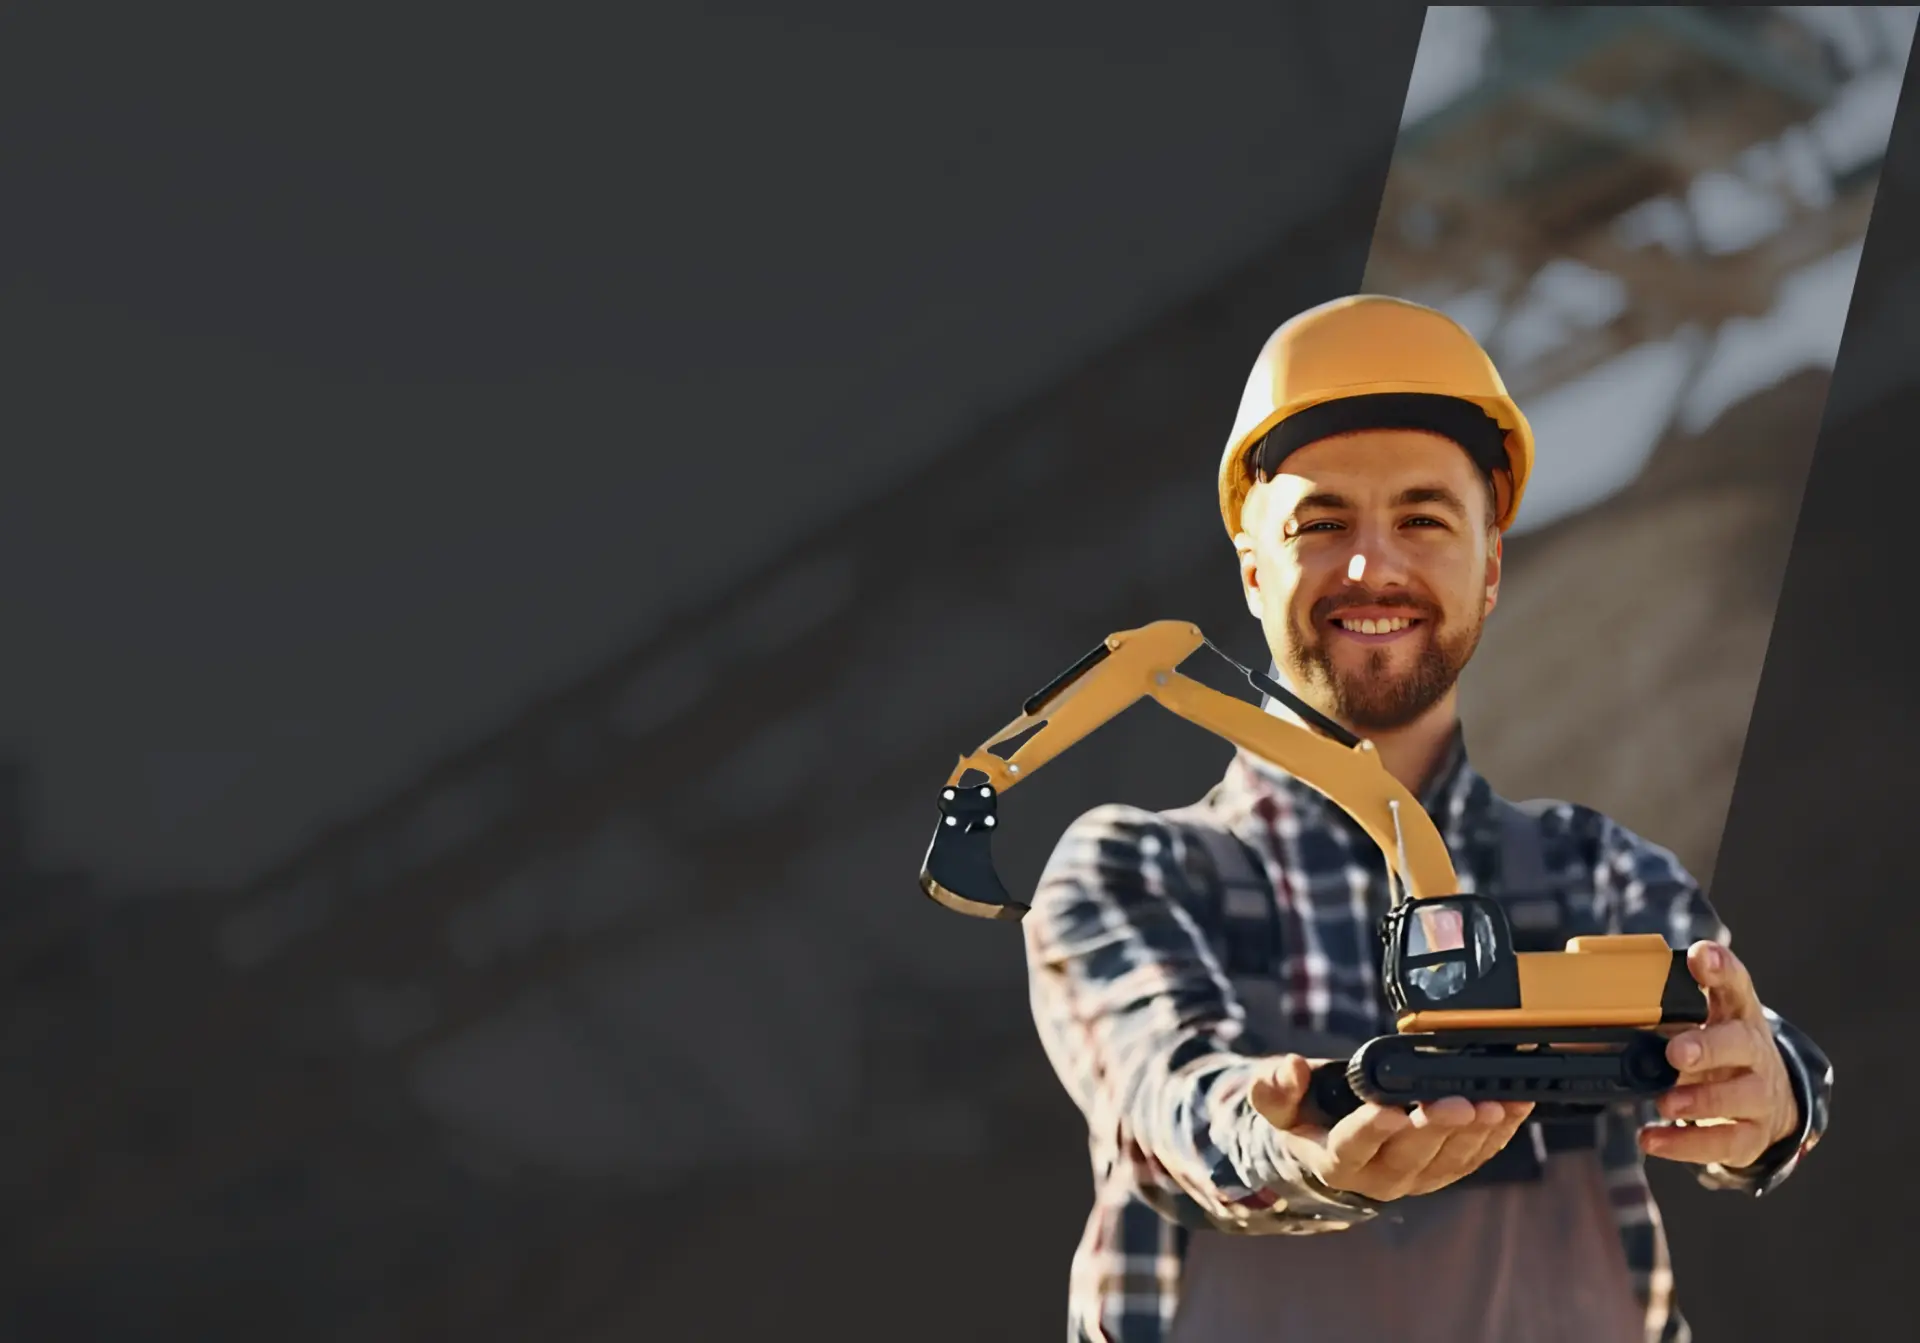
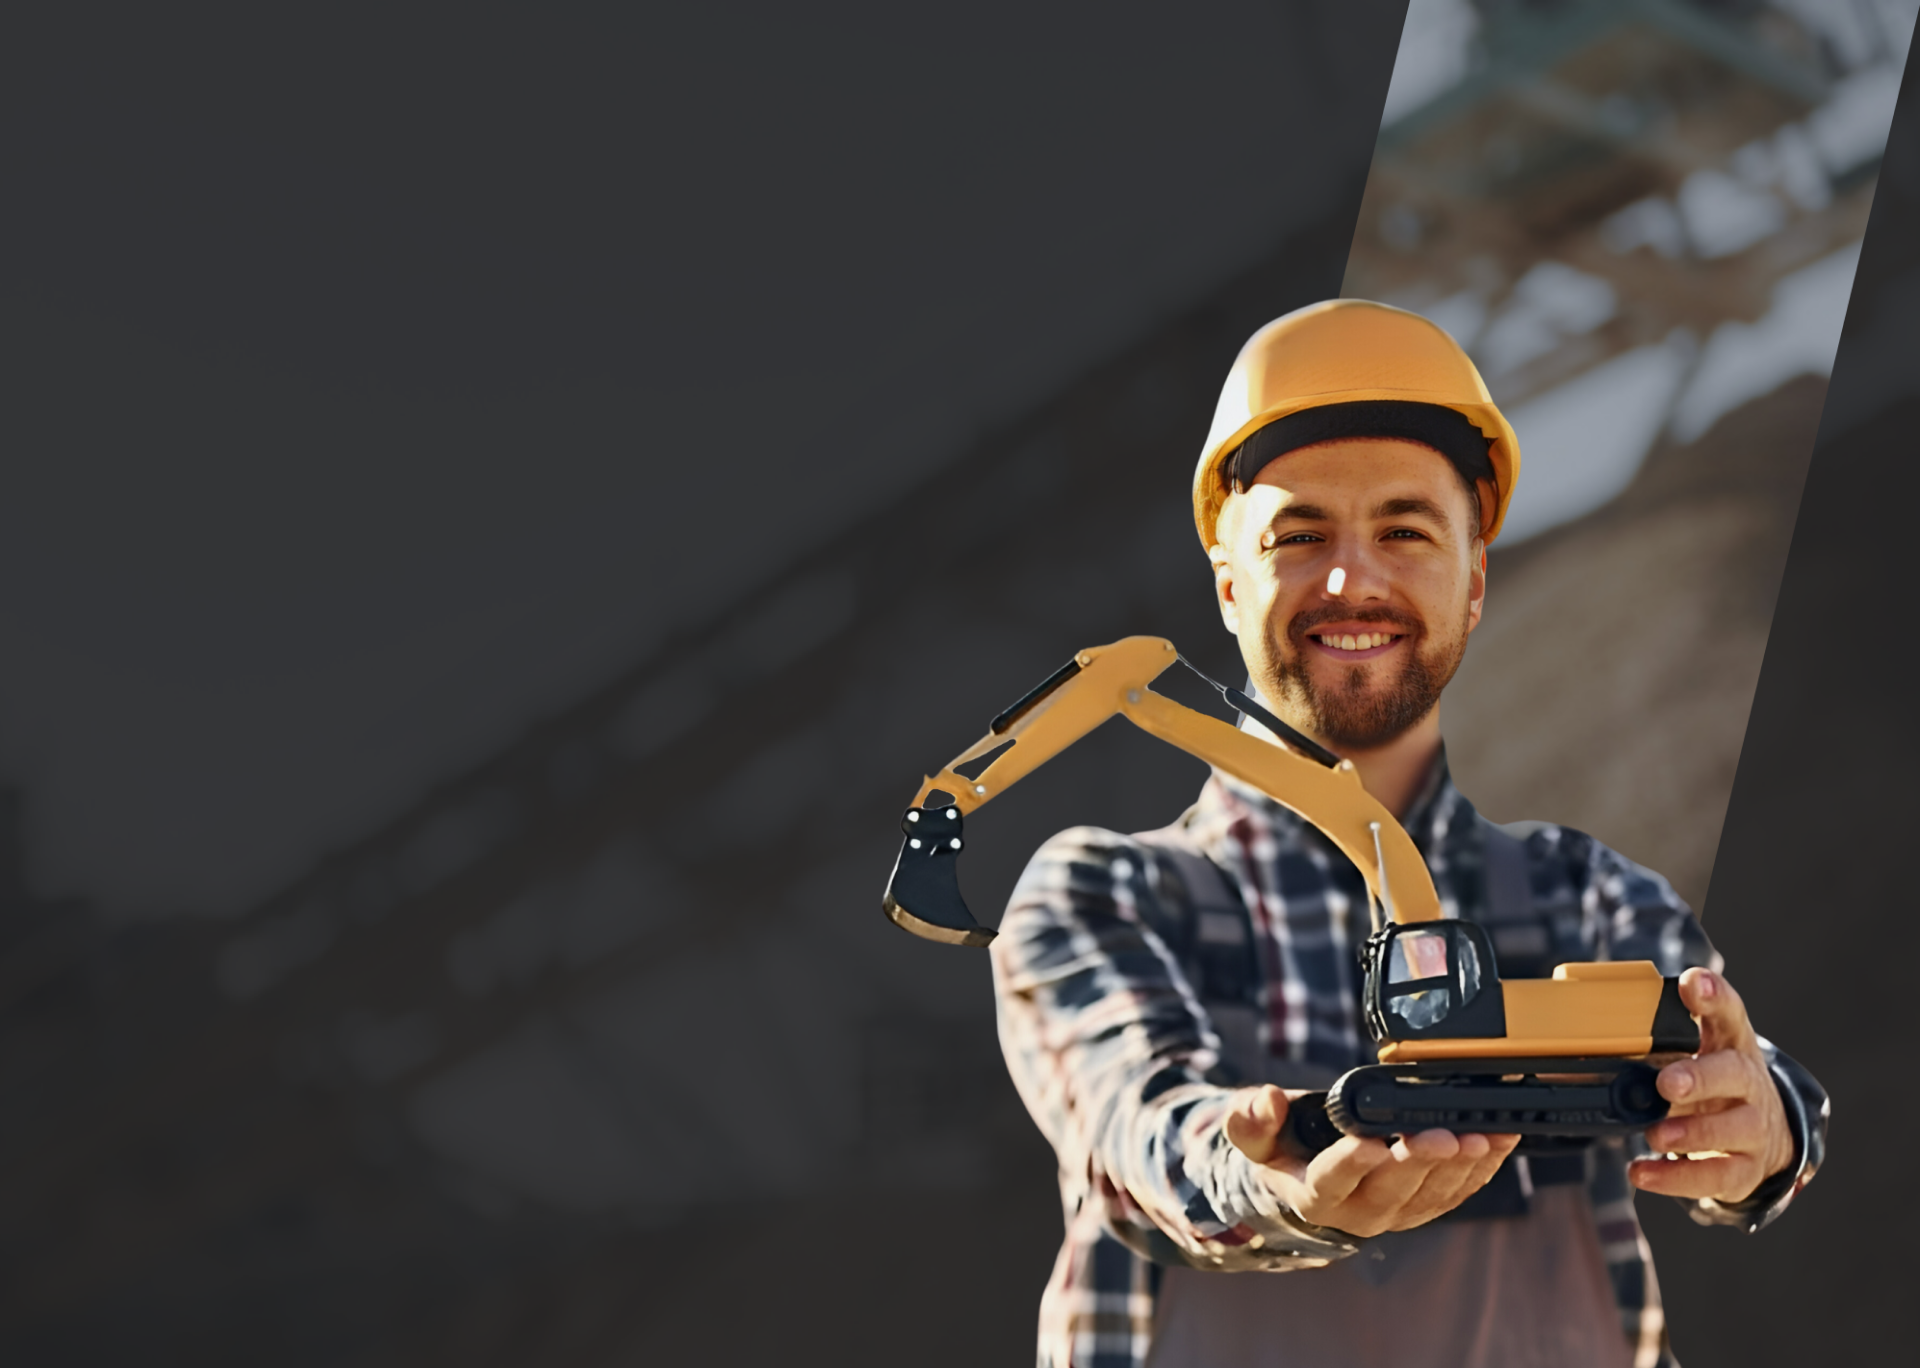
HR section done

diff --git a/src/components/index/HumanResources/HumanResources.tsx b/src/components/index/HumanResources/HumanResources.tsx
@@ -1,8 +1,50 @@
 import React, { useState } from "react";
 import styles from "./HumanResources.module.scss";
 import Image from "next/image";
-import { Button, TextField } from "@mui/material";
+import { Button, TextField, styled } from "@mui/material";
 import { MuiFileInput } from "mui-file-input";
+
+const StyledTextField = styled(TextField)`
+  & label.Mui-focused {
+    color: white;
+  }
+  & .MuiOutlinedInput-root {
+    &.Mui-focused fieldset {
+      border-color: white;
+    }
+  }
+
+  fieldset {
+    border-color: white;
+  }
+
+  & .muiformlabel-root[data-shrink=false]: {
+    color: #f7f0e3;
+  }
+
+  border-color: white;
+`;
+
+const StyledFileInput = styled(MuiFileInput)`
+  & label.Mui-focused {
+    color: white;
+  }
+  & .MuiOutlinedInput-root {
+    &.Mui-focused fieldset {
+      border-color: white;
+    }
+  }
+
+  fieldset {
+    border-color: white;
+  }
+
+  & span {
+    color: #f7f0e3;
+  }
+
+  border-color: white;
+`;
 
 export const HumanResources = () => {
   const [cvFile, setCvFile] = useState<File | null>(null);
@@ -16,44 +58,63 @@ export const HumanResources = () => {
       <div className={styles.contentContainer}>
         <div className={styles.sectionHeader}>
           <h3>Cadre</h3>
+          <p>Fii parte din echipa noastră de profesioniști</p>
         </div>
-        <p className={styles.sectionSubTitle}>
-          Fii parte din echipa noastră de profesioniști
-        </p>
+
         <form className={styles.contactForm}>
-          <TextField
+          <StyledTextField
             className={styles.contactFormInput}
             id="nameSurname"
             label="Nume Prenume"
             autoComplete="nameSurname"
-            InputProps={{ sx: { borderRadius: 0 } }}
+            InputProps={{ sx: { borderRadius: 0, height: "70px" } }}
+            sx={{
+              ".MuiFormLabel-root[data-shrink=false]": {
+                top: "5px",
+              },
+            }}
           />
 
-          <TextField
+          <StyledTextField
             className={styles.contactFormInput}
             id="phone"
             label="Telefon"
             autoComplete="phone"
-            InputProps={{ sx: { borderRadius: 0 } }}
+            InputProps={{ sx: { borderRadius: 0, height: "70px" } }}
+            sx={{
+              ".MuiFormLabel-root[data-shrink=false]": {
+                top: "5px",
+              },
+            }}
           />
 
-          <TextField
+          <StyledTextField
             className={styles.contactFormInput}
             id="email"
             label="Email"
             autoComplete="email"
-            InputProps={{ sx: { borderRadius: 0 } }}
+            InputProps={{ sx: { borderRadius: 0, height: "70px" } }}
+            sx={{
+              ".MuiFormLabel-root[data-shrink=false]": {
+                top: "5px",
+              },
+            }}
           />
 
-          <TextField
+          <StyledTextField
             className={styles.contactFormInput}
             id="job"
             label="Funcția"
             autoComplete="job"
-            InputProps={{ sx: { borderRadius: 0 } }}
+            InputProps={{ sx: { borderRadius: 0, height: "70px" } }}
+            sx={{
+              ".MuiFormLabel-root[data-shrink=false]": {
+                top: "5px",
+              },
+            }}
           />
 
-          <TextField
+          <StyledTextField
             className={styles.contactFormTextField}
             fullWidth
             id="message"
@@ -62,14 +123,21 @@ export const HumanResources = () => {
             multiline
             rows={6}
             InputProps={{ sx: { borderRadius: 0 } }}
+            sx={{
+              width: "100%",
+              ".MuiFormLabel-root[data-shrink=false]": {
+                top: "5px",
+              },
+            }}
           />
 
-          <MuiFileInput
+          <StyledFileInput
             className={styles.contactFormFileInput}
             placeholder="Încarcă fișierul/CV"
             value={cvFile}
+            //@ts-ignore
             onChange={handleCvFileChange}
-            InputProps={{ sx: { borderRadius: 0 } }}
+            InputProps={{ sx: { borderRadius: 0, height: "160px" } }}
           />
 
           <Button
@@ -86,7 +154,7 @@ export const HumanResources = () => {
         src="/images/hr_bg.webp"
         className={styles.sectionImage}
         width={1920}
-        height={1343}
+        height={1368}
         alt="cadre"
       />
     </section>

diff --git a/src/components/index/ContactUs/ContactUs.tsx b/src/components/index/ContactUs/ContactUs.tsx
@@ -23,6 +23,10 @@ const StyledTextField = styled(TextField)`
     border-color: white;
   }
 
+  & .muiformlabel-root[data-shrink=false]: {
+    color: #f7f0e3;
+  }
+
   background: #212122;
   border-color: white;
   width: 372px;
@@ -56,7 +60,6 @@ export const ContactUs = () => {
                 sx={{
                   ".MuiFormLabel-root[data-shrink=false]": {
                     top: "5px",
-                    color: "#F7F0E3",
                   },
                 }}
               />
@@ -69,7 +72,6 @@ export const ContactUs = () => {
                 sx={{
                   ".MuiFormLabel-root[data-shrink=false]": {
                     top: "5px",
-                    color: "#F7F0E3",
                   },
                 }}
               />
@@ -84,7 +86,6 @@ export const ContactUs = () => {
                 sx={{
                   ".MuiFormLabel-root[data-shrink=false]": {
                     top: "5px",
-                    color: "#F7F0E3",
                   },
                 }}
               />
@@ -97,7 +98,6 @@ export const ContactUs = () => {
                 sx={{
                   ".MuiFormLabel-root[data-shrink=false]": {
                     top: "5px",
-                    color: "#F7F0E3",
                   },
                 }}
               />
@@ -115,7 +115,6 @@ export const ContactUs = () => {
                 width: "100%",
                 ".MuiFormLabel-root[data-shrink=false]": {
                   top: "5px",
-                  color: "#F7F0E3",
                 },
               }}
               InputProps={{ sx: { borderRadius: 0 } }}

diff --git a/src/components/index/HumanResources/HumanResources.module.scss b/src/components/index/HumanResources/HumanResources.module.scss
@@ -2,7 +2,7 @@
   margin-top: 80px;
   display: flex;
   flex-direction: column;
-  min-height: 1343px;
+  min-height: 1368px;
   position: relative;
 
   max-width: 1920px;
@@ -10,7 +10,6 @@
 }
 
 .contentContainer {
-  margin-top: 105px;
   margin-left: 150px;
   display: flex;
   flex-direction: column;
@@ -18,10 +17,12 @@
 }
 
 .sectionHeader {
-  z-index: 3;
+  z-index: 2;
   position: relative;
-  padding-bottom: 10px;
-
+  display: inline-block;
+  padding-bottom: 12px;
+  margin-top: 105px;
+  margin-left: -5px;
   background: linear-gradient(
     90deg,
     rgba(232, 207, 122, 0.1) 0%,
@@ -39,24 +40,24 @@
   }
 
   h3 {
-    margin-left: 23px;
+    margin-left: 20px;
     color: #fff;
     font-family: "Exo 2";
     font-size: 3rem;
     font-style: normal;
     font-weight: 500;
-    line-height: 1;
+    line-height: 110%;
     text-transform: uppercase;
   }
-}
 
-.sectionSubTitle {
-  z-index: 2;
-  margin-top: 20px;
-  color: #e8cf7a;
-  font-size: 1.625em;
-  font-weight: 500;
-  line-height: 110%;
+  p {
+    margin-left: 20px;
+    color: #e8cf7a;
+    font-family: "Exo 2";
+    font-size: 1.875rem;
+    font-weight: 400;
+    line-height: 1.1;
+  }
 }
 
 .sectionImage {
@@ -68,7 +69,8 @@
 
 .contactFormSubmitBtn {
   margin-right: auto;
-  padding: 15px 25px;
+  padding: 24px 88px;
+  font-size: 1.5rem;
 }
 
 .contactForm {
@@ -76,7 +78,7 @@
   flex-direction: column;
   z-index: 2;
   gap: 56px;
-  margin-top: 56px;
+  margin-top: 64px;
 }
 
 .contactFormInput {

diff --git a/src/components/shared/Header/Header.module.scss b/src/components/shared/Header/Header.module.scss
@@ -1,5 +1,6 @@
 .header {
   background: rgba(22, 22, 22, 0.7);
+  backdrop-filter: blur(6px);
   display: flex;
   padding: 17px 140px;
   justify-content: space-between;

diff --git a/src/components/index/Parteners/Parteners.module.scss b/src/components/index/Parteners/Parteners.module.scss
@@ -1,7 +1,6 @@
 .section {
   max-width: 1620px;
   margin: 0 auto;
-  margin-top: 100px;
 }
 
 .sectionHeader {
